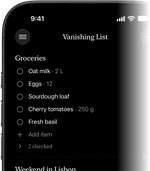
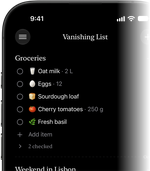
Vanishing List: the hero, ecosystem and link images show the items' emojis
Re-rendered from the current captures (Add Emojis on the sample lists), light
and dark; the hero now comes from a template in the app repo.

Claude-Session: https://claude.ai/code/session_01S1qnrQ64aKzxEfUsnLqb5e

diff --git a/VanishingList/README.md b/VanishingList/README.md
@@ -6,11 +6,11 @@ The landing page for Vanishing List, a checklist app for iPhone, iPad and Mac wh
 
 The images are rendered from the app repo (`Vanishing-List/MarketingAssets`) with headless Chrome:
 
-- `Hero*.png`: the raw app captures from `MarketingAssets/Screenshots/iphone/<light|dark>/01-lists.png` inside the iPhone frame from `MarketingAssets/AppStore/assets` (1:1, cropped and faded).
+- `Hero*.png`: rendered by `Scripts/web-images.sh` in the app repo from `MarketingAssets/AppStore/templates/web/hero.html`: the raw app captures from `MarketingAssets/Screenshots/iphone/<light|dark>/01-lists.png` inside the iPhone frame from `MarketingAssets/AppStore/assets` (1:1, cropped and faded). `assets/vl-*.png` (the home page's app card) is the top of `Hero-mobile*.png`, scaled to 150 px wide.
 - `ecosystem*.png`: rendered by `Scripts/web-images.sh` in the app repo from `MarketingAssets/AppStore/templates/web/ecosystem.html`.
 - `widget-*.png`: HTML mockups of the small and medium widgets (`VanishingListWidget/WidgetViews.swift`).
 - `iconVL.png`, `favicon/`: exported from `VanishingList.icon` with Icon Composer's `ictool`.
-- `og-image.png`: 1200×630, same layout as the Vanishing Notes one.
+- `og-image.png`: 1200×630, same layout as the Vanishing Notes one. Its phone is `Hero.png` at 340 px wide.
 - `actionButton.png`, `icloud-icon.png`, `shortcuts-icon.png`, `siri-icon.png`: copied from Vanishing Notes.
 
 ## Before launch
